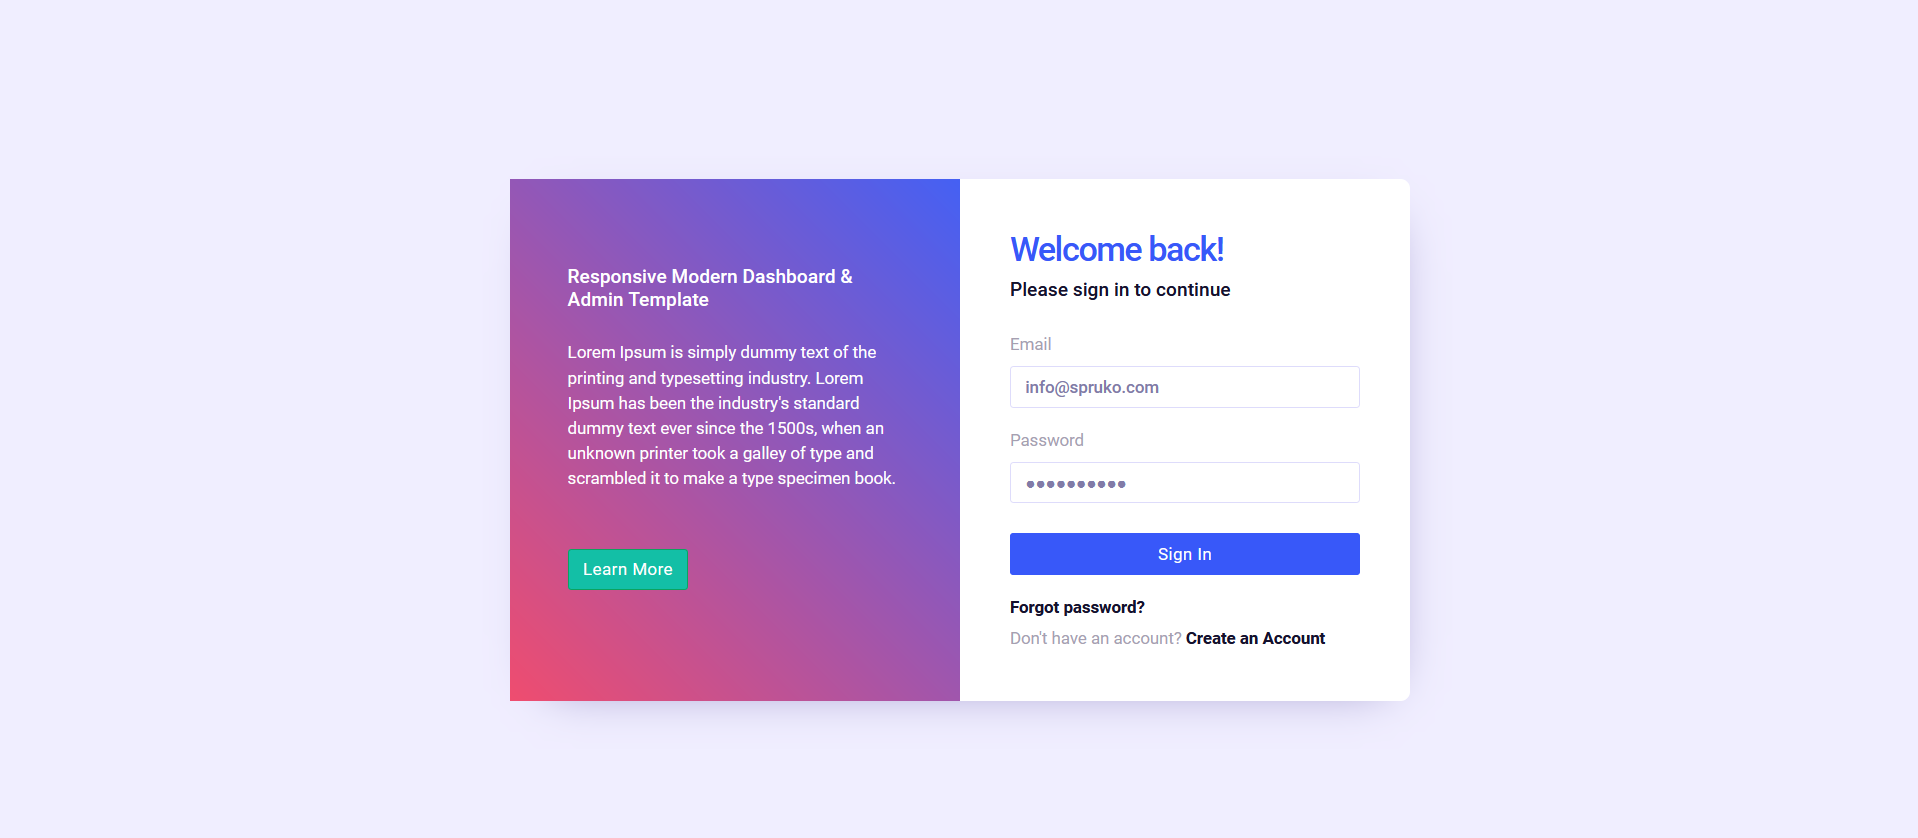
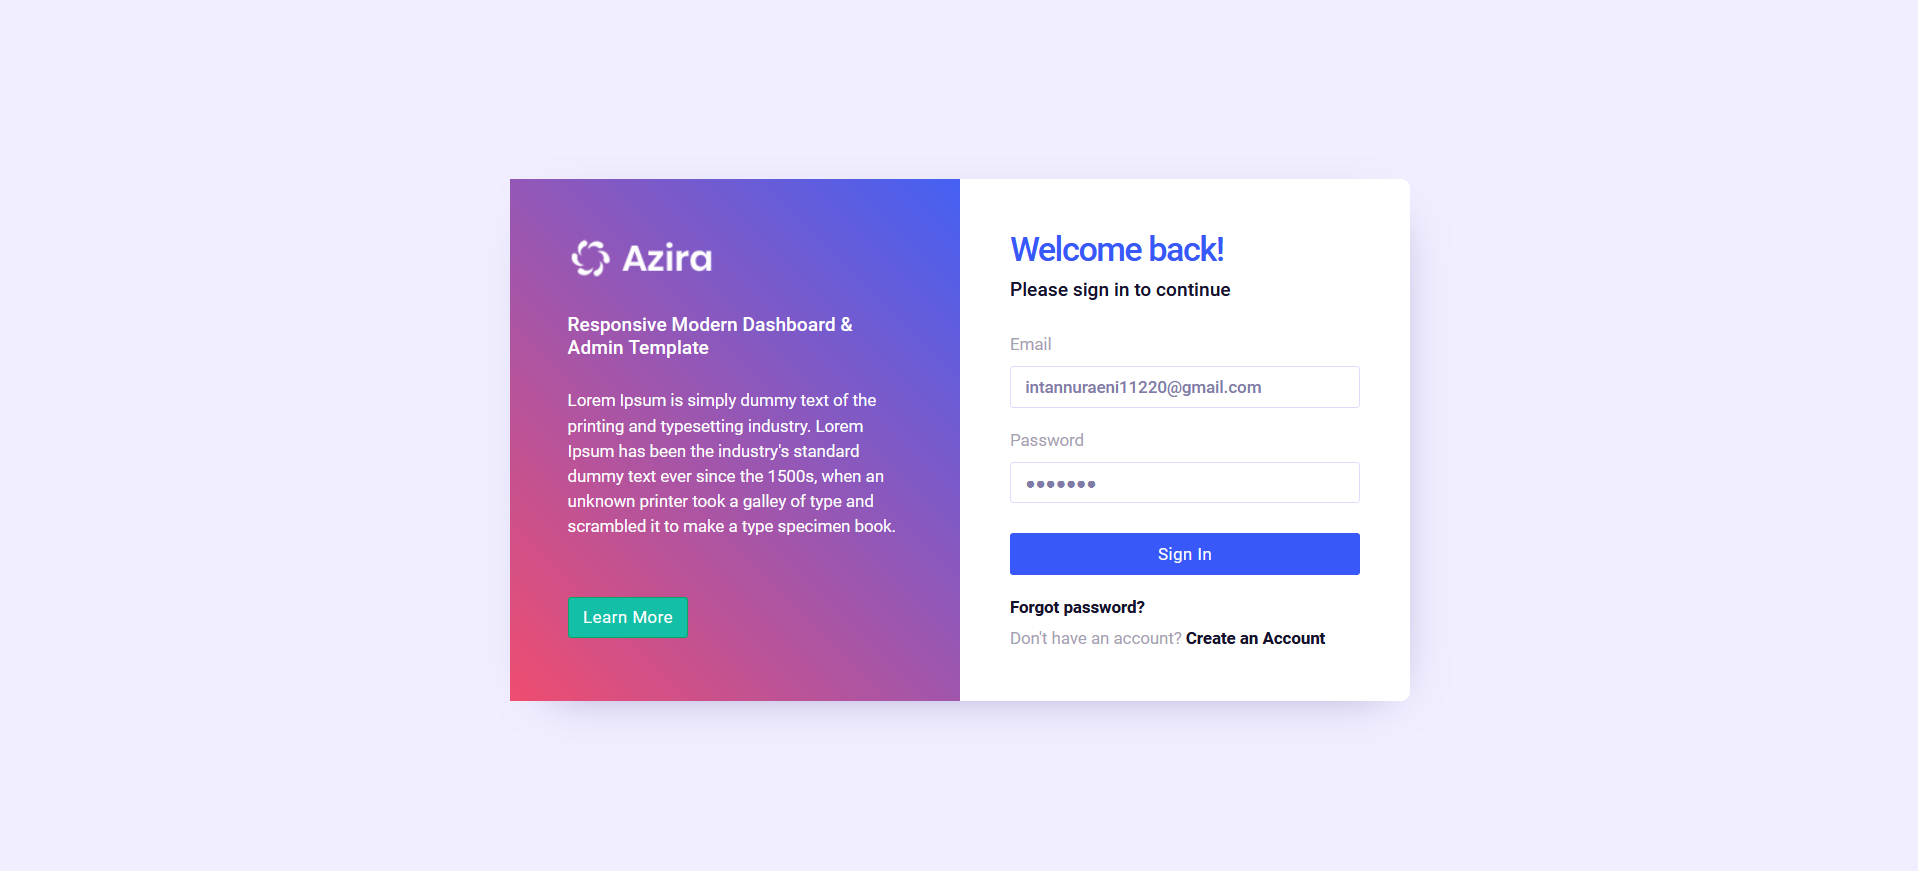
menyelesaikan sikom_1

diff --git a/resources/views/auth/login.blade.php b/resources/views/auth/login.blade.php
@@ -7,7 +7,7 @@
 				<div class="wd-md-50p login d-none d-md-block page-signin-style p-5 text-white" >
 					<div class="my-auto authentication-pages">
 						<div>
-							<img src="../{{ asset('') }}assets/img/brand/logo-white.png" class=" m-0 mb-4" alt="">
+							<img src="{{ asset('') }}assets/img/brand/logo-white.png" class=" m-0 mb-4" alt="logo">
 							<h5 class="mb-4">Responsive Modern Dashboard &amp; Admin Template</h5>
 							<p class="mb-5">Lorem Ipsum is simply dummy text of the printing and typesetting industry. Lorem Ipsum has been the industry's standard dummy text ever since the 1500s, when an unknown printer took a galley of type and scrambled it to make a type specimen book.</p>
 							<a href="index.html" class="btn btn-success">Learn More</a>
@@ -20,10 +20,10 @@
 						<h4>Please sign in to continue</h4>
 						<form action="index.html">
 							<div class="form-group">
-								<label>Email</label><input class="form-control" placeholder="Enter your email" type="text" value="info@spruko.com">
+								<label>Email</label><input class="form-control" placeholder="Enter your email" type="text" value="intannuraeni11220@gmail.com">
 							</div>
 							<div class="form-group">
-								<label>Password</label> <input class="form-control" placeholder="Enter your password" type="password" value="sprukodemo">
+								<label>Password</label> <input class="form-control" placeholder="Enter your password" type="password" value="rahasia">
 							</div><button class="btn btn-primary btn-block">Sign In</button>
 						</form>
 					</div>
